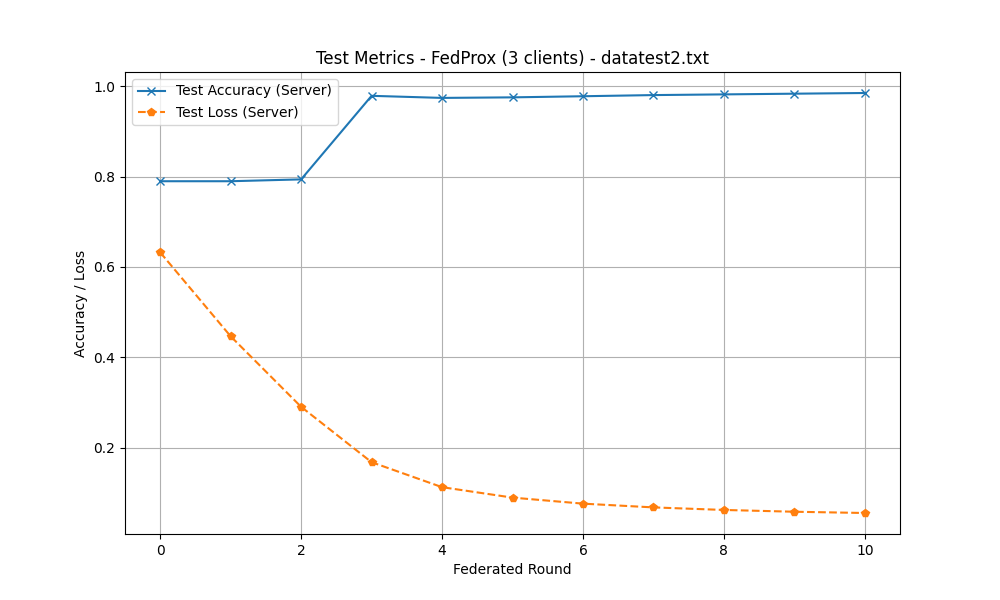
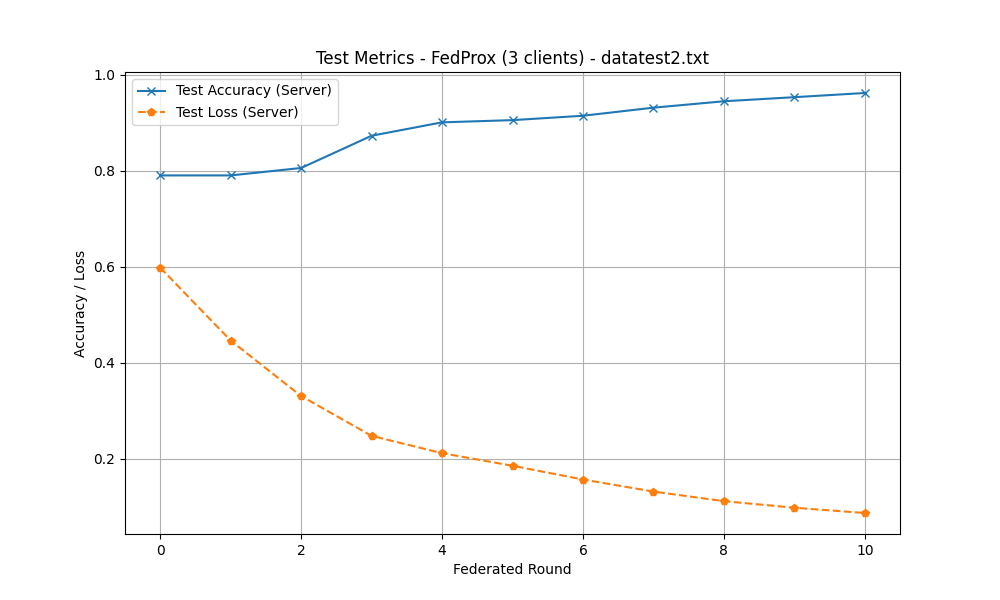
readme

diff --git a/README.md b/README.md
@@ -1,43 +1,56 @@
-# Oda Doluluk Tahmini - Merkezi ve Federated Öğrenme Karşılaştırması
+# Occupancy Detection - Centralized vs. Federated Learning Comparison
 
-Bu proje, oda doluluk tahmini için klasik makine öğrenmesi modelleri ve federated learning yaklaşımlarını karşılaştırmaktadır.
+This project compares classical machine learning models and federated learning approaches for occupancy detection in a room.
 
-## Veri Seti
+## Dataset
 
-Proje, aşağıdaki özellikleri içeren bir veri seti kullanmaktadır:
-- Temperature (Sıcaklık)
-- Humidity (Nem)
-- Light (Işık)
+The project uses a dataset with the following features:
+- Temperature
+- Humidity
+- Light
 - CO2
-- HumidityRatio (Nem Oranı)
-- Occupancy (Doluluk - Hedef değişken)
+- HumidityRatio
+- Occupancy (Target variable: 0 for not occupied, 1 for occupied)
 
-## Özellikler
+The data is sourced from three files:
+- `data/datatraining.txt` (Used for training all models)
+- `data/datatest.txt` (Used for validation of all models)
+- `data/datatest2.txt` (Used for final testing of all models)
 
-1. Klasik Makine Öğrenmesi Modelleri:
-   - Random Forest
-   - K-Nearest Neighbors (KNN)
+## Features Implemented
 
-2. Federated Learning Algoritmaları:
-   - FedAvg
-   - FedSGD
-   - FedNova
+1.  **Classical Machine Learning Models (Centralized Training):**
+    *   Random Forest
+    *   K-Nearest Neighbors (KNN)
+    *   XGBoost
+    *   Gaussian Naive Bayes
+    *   Perceptron
+    *   Support Vector Machine (SVM)
+    *   Decision Tree (CART)
 
-3. Değerlendirme Metrikleri:
-   - Accuracy (Doğruluk)
-   - Precision (Kesinlik)
-   - Recall (Duyarlılık)
-   - F1 Score
-   - Confusion Matrix (Karmaşıklık Matrisi)
+2.  **Federated Learning Algorithms (using Flower framework):**
+    *   **FedAvg (Federated Averaging):** Standard federated learning algorithm.
+    *   **FedProx:** A variation of FedAvg designed to handle system and data heterogeneity among clients by adding a proximal term to the local loss function.
 
-## Çıktılar
+    Federated learning simulations are run with varying numbers of clients (e.g., 2, 3, 5, 10) to observe the impact of client count on performance.
 
-Program çalıştırıldığında:
-1. Veri seti yükleme ve ön işleme adımları
-2. Klasik modellerin eğitimi ve değerlendirmesi
-3. Federated learning modellerinin eğitimi ve değerlendirmesi
-4. Tüm modellerin karşılaştırmalı sonuçları
+3.  **Evaluation Metrics:**
+    *   Accuracy
+    *   Confusion Matrix
+    *   Training Time
 
-terminal üzerinde gösterilecektir. 
-![image](https://github.com/user-attachments/assets/a782463e-050a-4f3f-8ea9-cd380a2aea81)
-
+4.  **Outputs and Visualizations:**
+    *   **Comparative Results Table:** A summary table (logged to console and saved as `results/comparative_results_table.html`) comparing all models based on validation accuracy, test accuracy, and training time.
+    *   **Confusion Matrices:** For the test set (`datatest2.txt`), confusion matrices are generated for each classical model and the final global federated learning models (saved in the `results` directory).
+    *   **Learning Curves (Federated Learning):** For each federated learning strategy and client count, separate plots show:
+        *   Validation accuracy and validation loss over federated rounds (client-side evaluation on `datatest.txt`).
+        *   Test accuracy and test loss over federated rounds (server-side evaluation on `datatest2.txt`).
+        (Saved in the `results` directory, e.g., `lc_validation_FedAvg_2clients.png`, `lc_test_FedAvg_2clients.png`).
+    *   **Model Complexity/Convergence Curves (Classical Models):** For several classical models, plots show training and validation accuracy as a key hyperparameter (related to model complexity or convergence) is varied. This helps visualize overfitting.
+        *   Decision Tree: `max_depth` vs. Accuracy
+        *   KNN: `n_neighbors` vs. Accuracy
+        *   Random Forest: `max_depth` vs. Accuracy
+        *   XGBoost: `max_depth` vs. Accuracy
+        *   SVM: `C` parameter vs. Accuracy
+        *   Perceptron: `max_iter` vs. Accuracy
+        (Saved in the `results` directory, e.g., `complexity_curve_decision_tree.png`).
